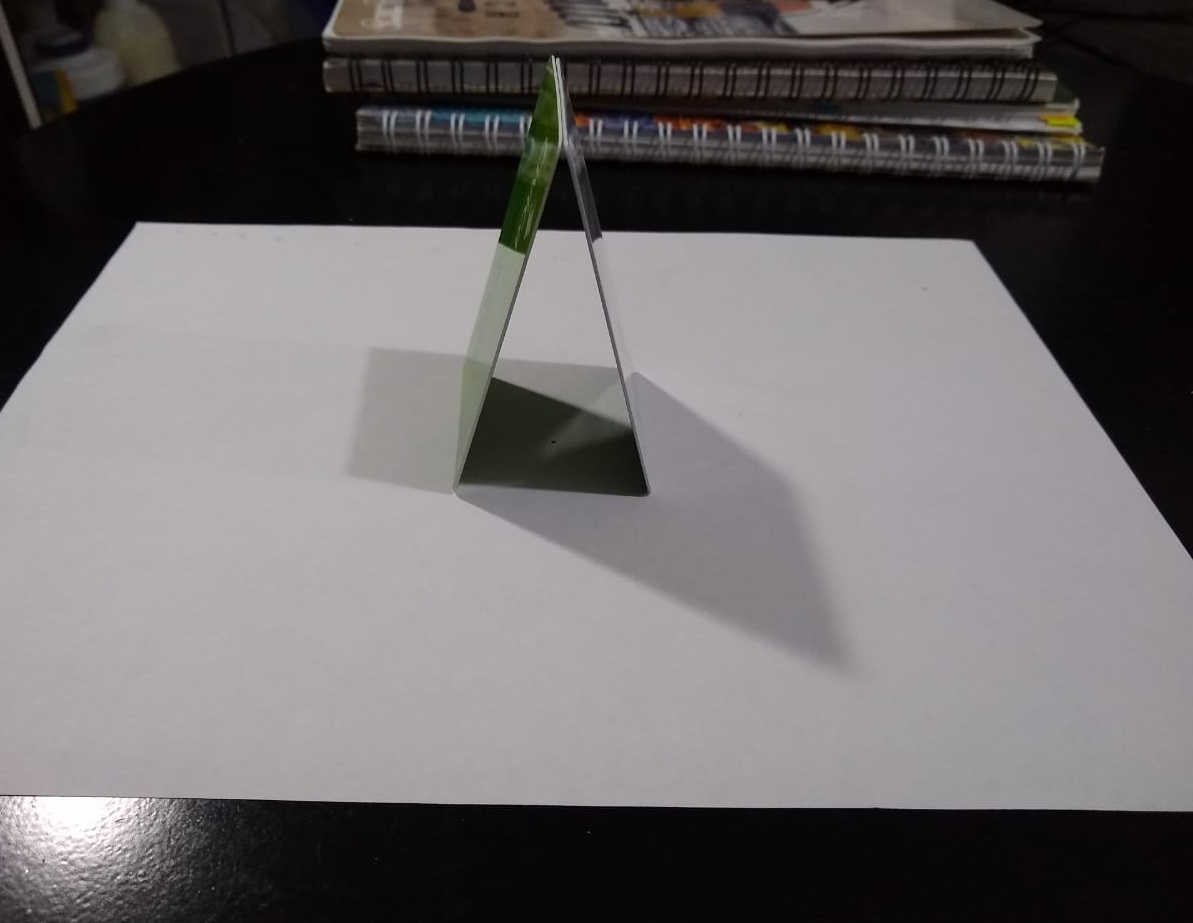
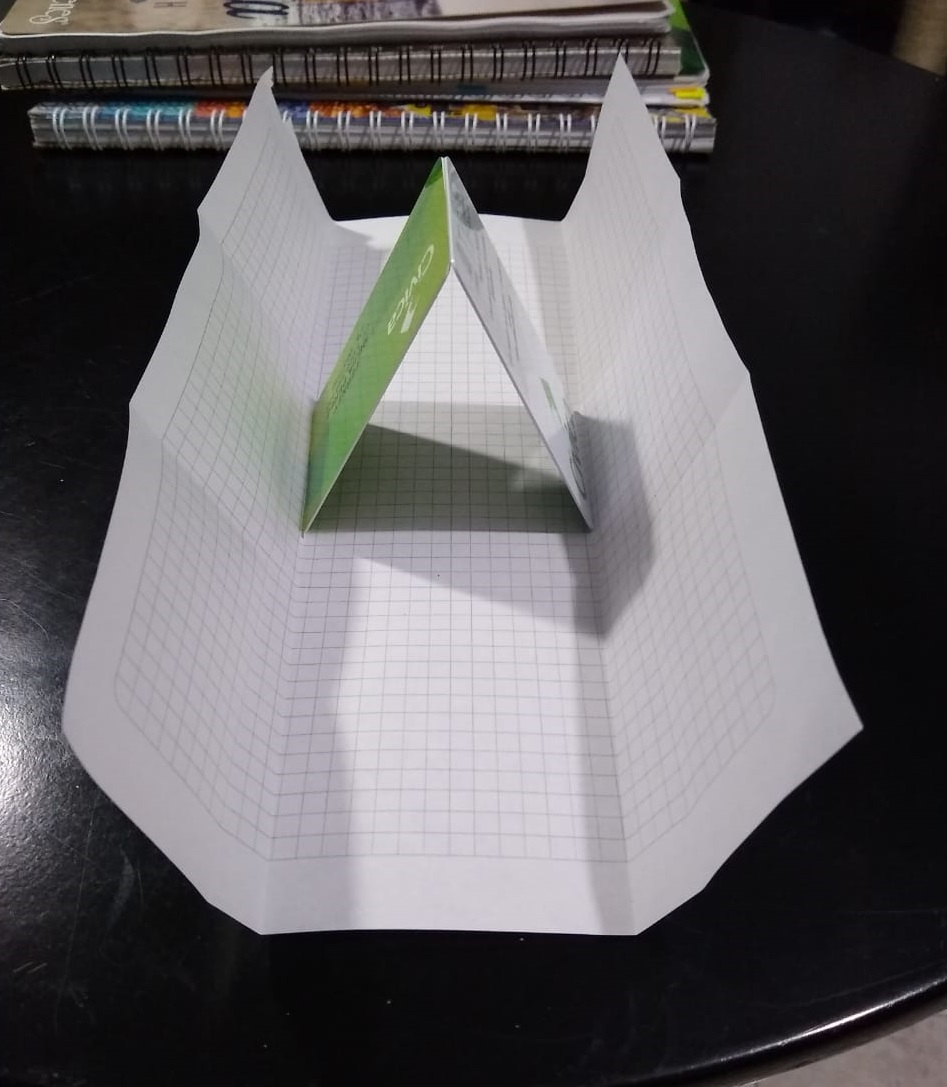
Se soluciona gran parte del trabajo, solo resta grabar los videos de las 3 personas, subirlo a youtube y listo!

diff --git a/main.tex b/main.tex
@@ -43,67 +43,58 @@ El objetivo principal de este trabajo es la realización y ejecución de una act
 
 
 \section{Sección de contenido} \label{contenido}
-Esta sección es para agregar toda la información correspondiente con código, citas, etc.
-\subsection{Citación}
-Vamos a citar por ejemplo un artículo de \textbf{Albert Einstein} \cite{einstein}.
-También es posible citar libros \cite{dirac} o documentos en línea \cite{knuthwebsite}.\\\\
-Revisar en la última sección el formato de las referencias en IEEE.
+A continuación, se presentan cuatro secciones, en las cuales se describen el problema, la solución a este recurriendo a instrucciones, también, se expone el problema y la solución mediante imágenes, y por último, se adjunta un link al sitio web que almacena un vídeo que contiene el experimento con tres personas voluntarias dispuestas a poner en prueba la efectividad de dichas instrucciones.
 
-\subsection{Incluir código en el documento}
-%
-A continuación, se presenta el código \ref{codigo_ejemplo}, que nos permite incluir en el informe partes de programa que requieran una explicación adicional.
-\begin{lstlisting}[language=C++, label=codigo_ejemplo]
-// Programa desarrollado, compilado y ejecutado en https://www.onlinegdb.com
-#include <iostream>
+\subsection{Problema}
+Se tienen tres elementos que se presentan en la sección \ref{imagenes}, los cuales serán implementados para plantear el problema como tal.
+Ahora bien, la condición inicial es la siguiente; se debe hacer uso de una superficie plana (mesa), en la cuál tras ubicar las tarjetas de igual tamaño y proporción por debajo de la hoja en blanco sobre dicha superficie, se debe proceder haciendo uso de sólo una mano, a tratar de formar una pirámide como se indica en la figura \ref{fig:Piramide}.
 
-/*
- * Esto es un comentario de varias lineas
- */
+\subsection{Instrucciones de solución}
+1. Si la hoja en blanco está ubicada en posición vertical, girarla hasta que quede ubicada en posición horizontal.
 
-// Comentario de una sola linea
+2. Si la hoja está ubicada en posición horizontal omitir el paso 1.
 
-#define N 10
+3. Por condiciones naturales al posicionar de forma horizontal la hoja se forma un rectángulo. Ahora bien, hacer un doblez en la parte superior del ancho del rectángulo hasta la mitad de la hoja. Repetir el proceso pero en la parte inferior del ancho del rectángulo. 
 
-using namespace std;
+4. Por consiguiente, se presencia que la nueva forma de la hoja queda de manera similar a un plegable. Levantar la hoja desde cualquier parte tratando de mantener dicha forma, desplazarla unos cuantos centímetros a la derecha hasta ver que se puedan presenciar las tarjetas y descargarla sobre la misma superficie plana inicial (mesa).
 
-int main()
-{
-    
-    for( int i = 0 ; i < N ; i++ ){
-        
-        if( !(i % 2) )
-            cout << " El valor de i es -> " << i << endl;
-    }
-    
-    return 0;
-}
+5. Si las tarjetas se encuentran desordenadas o regadas, sobreponer una ante la otra, levantarlas y desplazarlas unos centímetros a la izquierda de la superficie plana inicial y descargarlas. 
 
-//Resultado programa
+6. Ahora, volver a sujetar la hoja en blanco manteniendo la forma del plegable y levantarla para ubicarla en la posición inicial sobre la superficie plana (mesa) de la cuál fue desplazada. Cabe anotar que, la posición de la hoja debe ser exactamente igual al momento en que fue retirada por primera vez, es decir, ubicar la hoja de forma horizontal (estado inicial en forma de plegable). Luego girar la hoja hacia arriba (90°) hasta quedar de forma vertical. 
 
-/*
-El valor de i es -> 0
-El valor de i es -> 2
-El valor de i es -> 4
-El valor de i es -> 6
-El valor de i es -> 8
-*/
-\end{lstlisting}
-En la sección \ref{imagenes}, se presentará como añadir ilustraciones al texto.
+7. Dirigirse hacia las tarjetas que deben estar sobrepuestas, sujetarlas con las yemas de los dedos manteniendo la sobreposición, luego, levantarlas.
+
+8. Después de levantar las tarjetas sobrepuestas, girar las tarjetas de manera horizontal hasta formar un rectángulo pequeño. Si se repara en la posición de las tarjetas y la hoja, se forma un eje coordenado (x,y).
+
+9. Teniendo en cuenta esa imagen mental del eje coordenado (x,y), tratar de ubicar las tarjetas sobre el centro de la hoja (origen del eje) y apoyarlas sobre esta.
+
+10. Levantar el dedo meñique para mayor maniobrabilidad, luego deslizar levemente ambas tarjetas hacia los doblez de las hojas y sin permitir que se desplomen las tarjetas, formar una pirámide como se presencia en la figura \ref{fig:Piramide}.
+
+11. Luego de formar la pirámide, liberar el agarre de la mano a las tarjetas levemente para evitar dañar la figura.
 
 \section{Inclusión de imágenes} \label{imagenes}
-
-En la Figura (\ref{fig:cpplogo}), se presenta el logo de C++ contenido en la carpeta images.
-
 \begin{figure}[h]
-\includegraphics[width=4cm]{cpplogo.png}
+\includegraphics[width=4cm]{Hoja.jpeg}
 \centering
-\caption{Logo de C++}
-\label{fig:cpplogo}
+\caption{Hoja en blanco}
+\label{fig:Hoja}
 \end{figure}
 
-Las secciones (\ref{intro}), (\ref{contenido}) y (\ref{imagenes}) dependen del estilo del documento.
+\begin{figure}[h]
+\includegraphics[width=4cm]{Tarjetas.jpeg}
+\centering
+\caption{Tarjetas de igual tamaño y proporción}
+\label{fig:Tarjetas}
+\end{figure}
 
-\bibliographystyle{IEEEtran}
-\bibliography{references}
 
+\begin{figure}[h]
+\includegraphics[width=4cm]{Piramide.jpeg}
+\centering
+\caption{Resultado esperado(pirámide)}
+\label{fig:Piramide}
+\end{figure}
+
+\section{Link del experimento}
+Haciendo uso de la plataforma de YouTube se añade el link del experimento realizado:
 \end{document}
